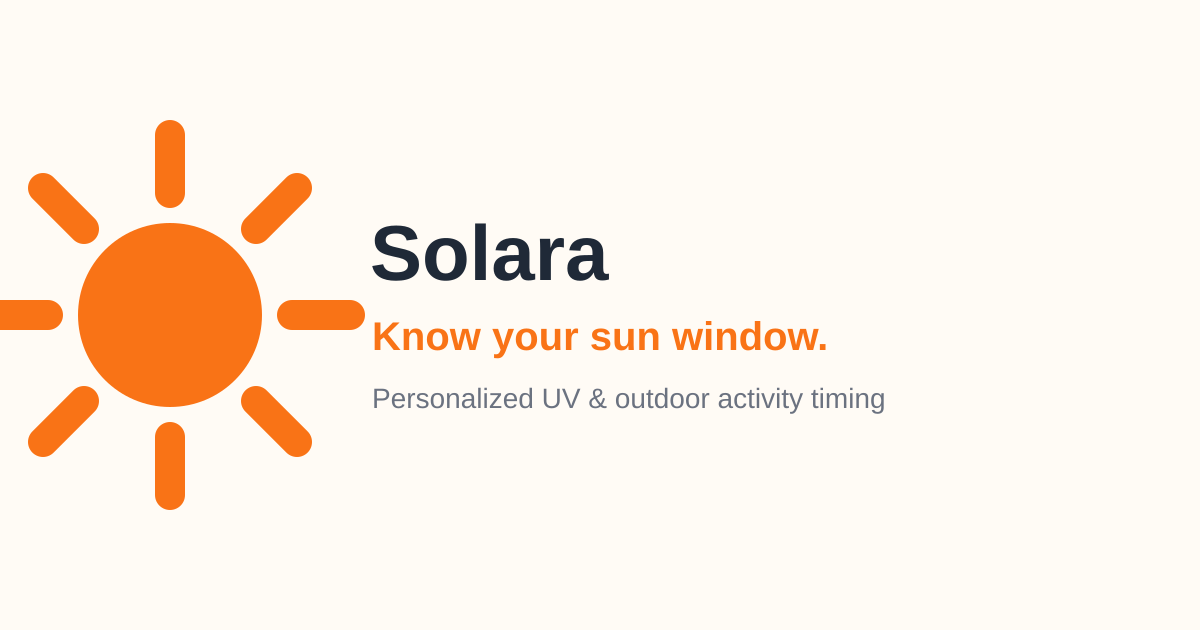
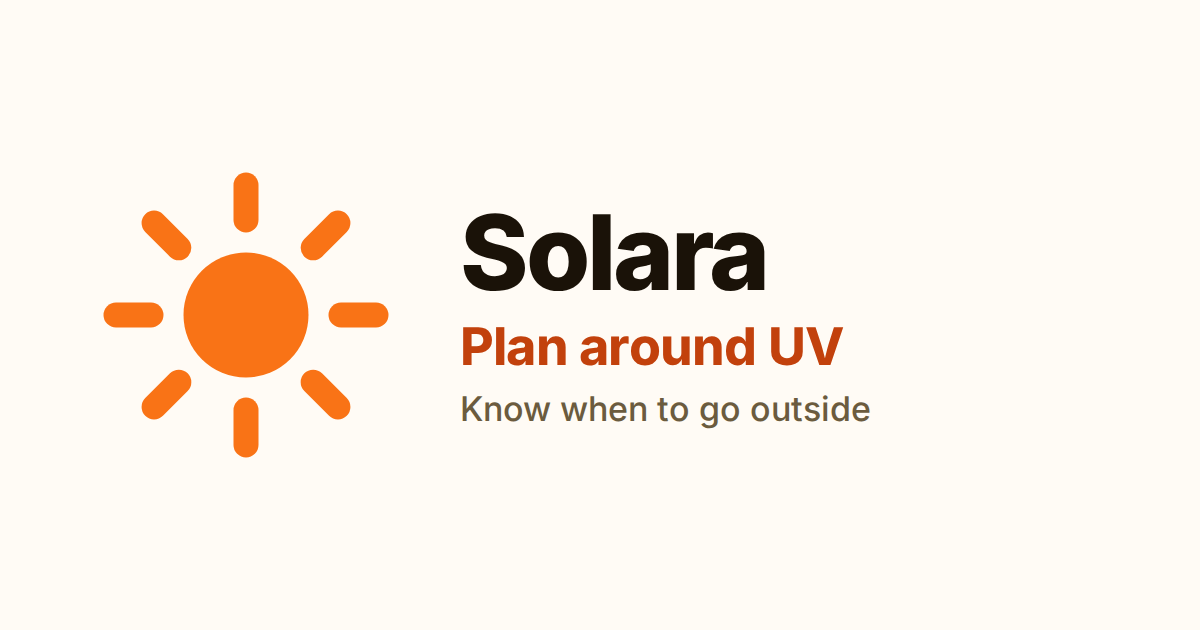
Social cards: a Spanish card for Spanish pages, the sun inside the frame (N3)
scripts/og-images.mjs draws both cards from the landing page's words and the
sun mark in Inter; Spanish pages point og:image and twitter:image at
og-image-es.png.

Changed region(s): [[0.0, 0.181, 0.74, 0.8143]]

diff --git a/lib/og-image.test.ts b/lib/og-image.test.ts
@@ -1,0 +1,32 @@
+import { readFileSync } from 'node:fs'
+import { describe, expect, it } from 'vitest'
+import { CARDS } from '../scripts/og-images.mjs'
+import { OG_IMAGES, pageText } from './page-language'
+
+// The social cards (REVIEW10 VERIFY10 N3): one per language, with the landing page's own
+// words, at the size the metadata states.
+
+/** A PNG's width and height, from its IHDR chunk. */
+function pngSize(file: string): { width: number; height: number } {
+  const png = readFileSync(file)
+  return { width: png.readUInt32BE(16), height: png.readUInt32BE(20) }
+}
+
+describe('the social cards', () => {
+  it('exist for every language at the size the metadata states', () => {
+    for (const [locale, image] of Object.entries(OG_IMAGES)) {
+      const card = CARDS.find(c => c.lang === locale)
+      expect(card?.file).toBe(`public${image.url}`)
+      expect(pngSize(`public${image.url}`)).toEqual({ width: image.width, height: image.height })
+    }
+  })
+
+  it("say the landing page's title and heading in their language", () => {
+    for (const card of CARDS) {
+      const landing = pageText(card.lang as 'en' | 'es').landing
+      const tagline = landing.title.replace(/^Solara: /, '')
+      expect(card.tagline.toLowerCase()).toBe(tagline.toLowerCase())
+      expect(card.line).toBe(landing.heading)
+    }
+  })
+})

diff --git a/lib/page-language.ts b/lib/page-language.ts
@@ -75,7 +75,14 @@ export function languageAlternates(path: string, locale: Locale): Metadata['alte
   }
 }
 
-const OG_IMAGE = { url: '/og-image.png', width: 1200, height: 630 }
+/**
+ * Each language's social card (drawn by scripts/og-images.mjs), so a Spanish link shared
+ * in a chat shows a Spanish card (REVIEW10 VERIFY10 N3).
+ */
+export const OG_IMAGES: Readonly<Record<Locale, { url: string; width: number; height: number }>> = {
+  en: { url: '/og-image.png', width: 1200, height: 630 },
+  es: { url: '/og-image-es.png', width: 1200, height: 630 },
+}
 
 /**
  * Title, description, canonical address, hreflang alternates and social cards for a
@@ -99,6 +106,7 @@ export function pageMetadata({
   locale: Locale
 }): Metadata {
   const alt = pageText(locale).site.ogImageAlt
+  const image = OG_IMAGES[locale]
   return {
     title,
     description,
@@ -111,13 +119,13 @@ export function pageMetadata({
       siteName: 'Solara',
       locale: OG_LOCALE[locale],
       alternateLocale: LOCALES.filter(l => l !== locale).map(l => OG_LOCALE[l]),
-      images: [{ ...OG_IMAGE, alt }],
+      images: [{ ...image, alt }],
     },
     twitter: {
       card: 'summary_large_image',
       title: socialTitle,
       description: socialDescription,
-      images: [OG_IMAGE.url],
+      images: [image.url],
     },
   }
 }

diff --git a/tests/e2e/spanish-pages.spec.ts b/tests/e2e/spanish-pages.spec.ts
@@ -127,6 +127,27 @@ test('the Spanish landing page leads into the app and to the Spanish city pages'
   await expect(page).toHaveURL(/\/app\/$/)
 })
 
+test('each language has its own social card (REVIEW10 VERIFY10 N3)', async ({ page, request }) => {
+  for (const [path, image] of [
+    ['/', '/og-image.png'],
+    ['/es/', '/og-image-es.png'],
+    ['/es/uv/sydney/', '/og-image-es.png'],
+  ] as const) {
+    await page.goto(path)
+    const head = page.locator('head')
+    await expect(head.locator('meta[property="og:image"]')).toHaveAttribute(
+      'content',
+      new RegExp(`${image.replace('.', '\\.')}$`),
+    )
+    await expect(head.locator('meta[name="twitter:image"]')).toHaveAttribute(
+      'content',
+      new RegExp(`${image.replace('.', '\\.')}$`),
+    )
+    const card = await request.get(image)
+    expect(card.headers()['content-type']).toBe('image/png')
+  }
+})
+
 test('the sitemap lists every page in both languages, with its alternates', async ({ request }) => {
   const sitemap = await (await request.get('/sitemap.xml')).text()
   for (const path of ['/', '/privacy/', '/terms/', '/uv/', '/uv/tokyo/']) {

diff --git a/lib/guest.ts b/lib/guest.ts
@@ -86,8 +86,8 @@ export async function requestPersistentStorage(
     ? undefined
     : navigator,
 ): Promise<boolean> {
-  const storage = nav?.storage
-  if (!storage?.persist || /\bFirefox\//.test(nav.userAgent)) return false
+  if (!nav?.storage?.persist || /\bFirefox\//.test(nav.userAgent)) return false
+  const { storage } = nav
   try {
     if (await storage.persisted?.()) return true
     return await storage.persist()

diff --git a/lib/page-language.test.ts b/lib/page-language.test.ts
@@ -38,6 +38,8 @@ describe('the static pages in every language (ROADMAP item 46)', () => {
       url: '/es/',
       locale: 'es_419',
       alternateLocale: ['en_US'],
+      images: [{ url: '/og-image-es.png', width: 1200, height: 630 }],
     })
+    expect(meta.twitter).toMatchObject({ images: ['/og-image-es.png'] })
   })
 })
